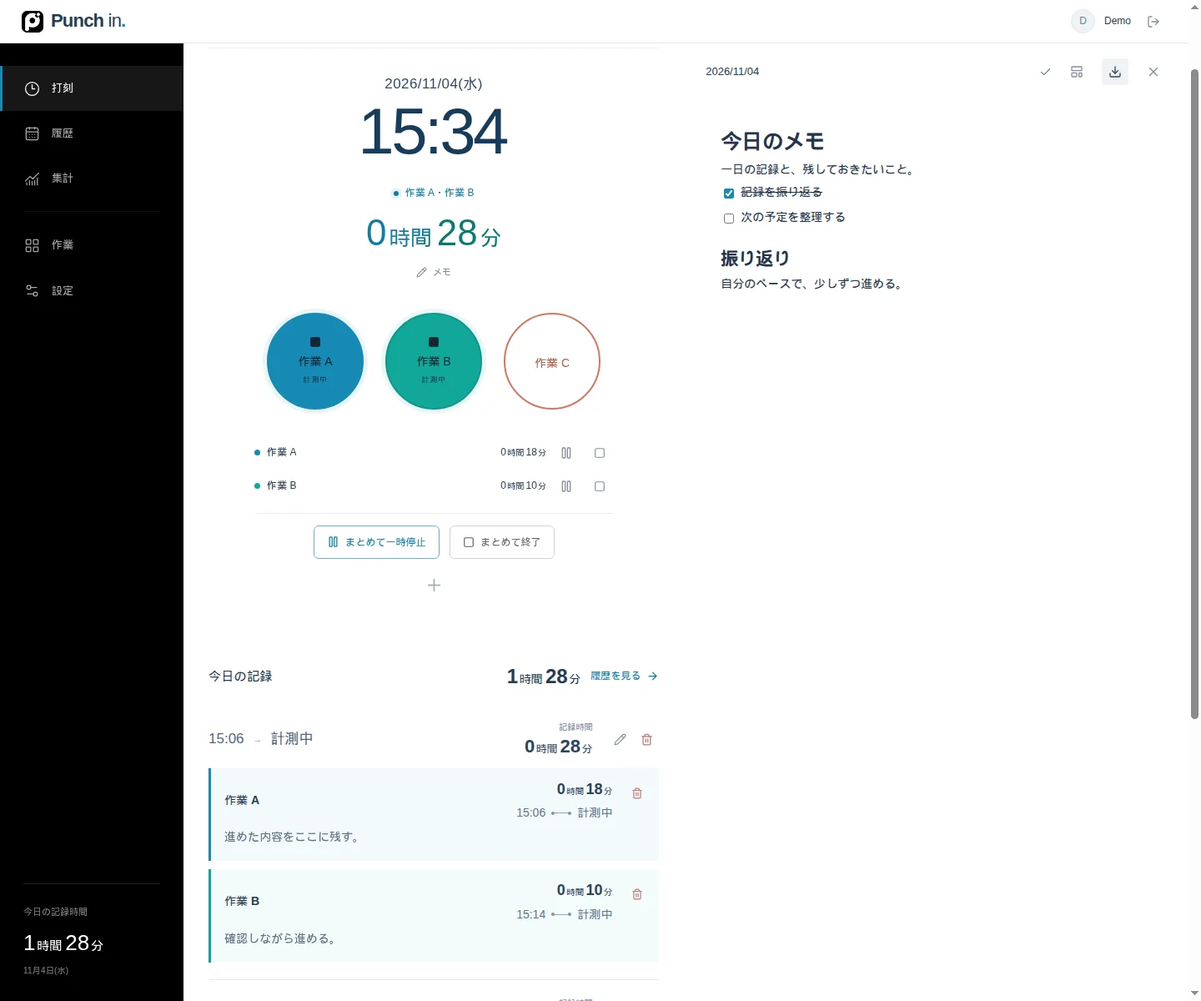
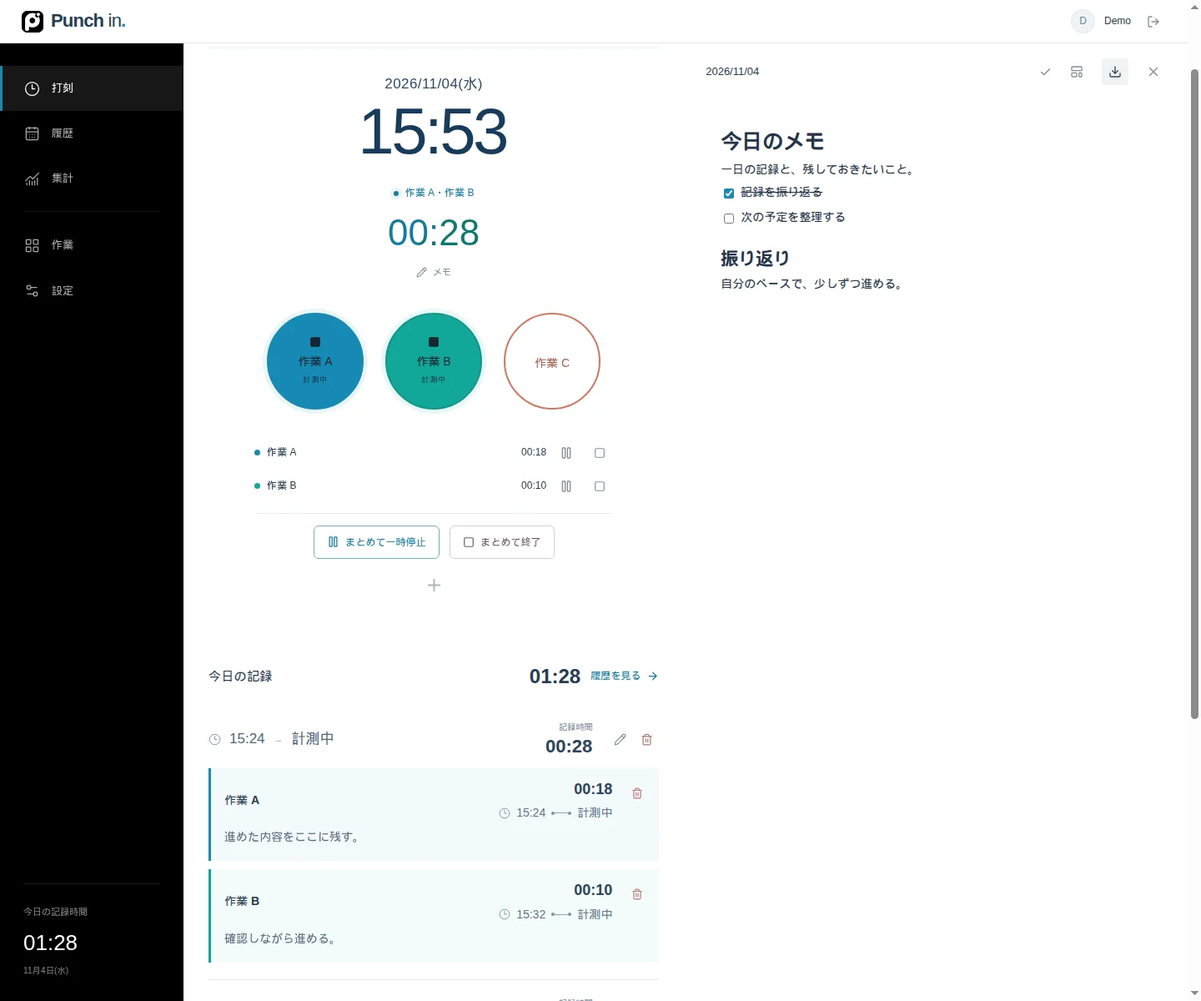
feat: 時間をHH:mmに統一し時刻に時計アイコンを追加

diff --git a/app/components/stats/stats-overview.tsx b/app/components/stats/stats-overview.tsx
@@ -3,7 +3,7 @@ import DurationValue from '../time/duration-value';
 import {memberKey,members,entryAllocations,memberRange} from "../../../lib/work";
 import {memo,useEffect,useId,useLayoutEffect,useMemo,useRef,useState,type CSSProperties} from "react";
 import {createPortal} from "react-dom";
-import {ArrowRight,ChevronLeft,ChevronRight,X} from "lucide-react";
+import {ArrowRight,Clock3,ChevronLeft,ChevronRight,X} from "lucide-react";
 import type {Category,Session} from "../../../lib/model";
 import {buildStatsBuckets,bucketTimes,sumTimes,type StatsBucket} from "../../../lib/stats";
 import {hoursMinutes,minuteInput,readableColor,type Period} from "../../../lib/time";
@@ -34,6 +34,6 @@ export default memo(function StatsOverview({today,accent,sessions,categories,now
   const pageCount=Math.max(1,Math.ceil(rows.length/20)),currentPage=Math.min(page,pageCount-1);
   return <><h2 className="stats-chart-heading">作業時間の内訳</h2><section className="stats-chart" aria-label="作業時間のグラフ"><div className="chart-scale"><span><DurationValue value={max}/></span><span><DurationValue value={max/2}/></span><span><DurationValue value={0}/></span></div><div className="chart-scroll"><div className="chart-plot" style={{minWidth:Math.max(400,rows.length*27)}}>{rows.map(({bucket,values})=><div className="chart-column" key={bucket.key}><button className={`chart-hit ${selection?.key===bucket.key?"is-selected":""}`} aria-label={`${bucket.key} 作業時間 ${hoursMinutes(sumTimes(values))}、履歴を開く`} aria-describedby={selection?.key===bucket.key?popupId:undefined} onPointerDown={e=>{lastPointer.current=e.pointerType;}} onPointerEnter={e=>{if(e.pointerType!=="touch")show(bucket,e.currentTarget);}} onPointerLeave={leave} onFocus={e=>show(bucket,e.currentTarget)} onBlur={e=>{if(!popup.current?.contains(e.relatedTarget))leave();}} onClick={e=>{if(lastPointer.current==="touch"&&e.detail!==0)show(bucket,e.currentTarget,true);else onHistory(bucket.from,bucket.to,categoryFilter);}}><span className="chart-stack" aria-hidden="true">{columns.map(c=>{const value=values.get(c.id)??0;return value>0?<span key={c.id} style={{height:`${value/max*100}%`,background:c.color}}/>:null;})}</span></button><span className="chart-label">{monthly?(period==="all"?bucket.key.replace("-","/"):`${Number(bucket.key.slice(5,7))}月`):period==="day"?`${Number(bucket.key.slice(5,7))}/${Number(bucket.key.slice(8))}`:Number(bucket.key.slice(8))}</span></div>)}</div></div></section>
     <section className="stats-table-section" aria-label="時間の集計表"><div className="section-heading"><h2>{monthly?"月別の内訳":"日別の内訳"}</h2><span className="section-total tabular"><DurationValue value={sumTimes(totals)}/></span></div><div className="table-scroll"><table className="stats-detail-table"><thead><tr><th>{monthly?"月":"日付"}</th>{columns.map(c=><th key={c.id}><span className="stats-column-label" title={c.name}><span className="dot" style={{background:c.color}}/>{c.name}</span></th>)}<th>作業時間</th></tr></thead><tbody>{rows.slice(currentPage*20,currentPage*20+20).map(({bucket,values})=><tr key={bucket.key} className={(monthly?bucket.key===today.slice(0,7):bucket.key===today)?"is-today":""}><th scope="row"><button className="note-day-button" onClick={()=>onHistory(bucket.from,bucket.to,categoryFilter)}>{bucket.key.replaceAll("-","/")}</button></th>{columns.map(c=><td key={c.id}><DurationValue value={values.get(c.id)??0}/></td>)}<td className="stats-row-total"><DurationValue value={sumTimes(values)}/></td></tr>)}</tbody><tfoot><tr><th scope="row">期間合計</th>{columns.map(c=><td key={c.id}><DurationValue value={totals.get(c.id)??0}/></td>)}<td className="stats-row-total"><DurationValue value={sumTimes(totals)}/></td></tr></tfoot></table></div>{pageCount>1&&<div className="pagination"><button className="icon-button" disabled={currentPage===0} onClick={()=>setPage(currentPage-1)} aria-label="内訳の前のページ"><ChevronLeft size={18}/></button><span>{currentPage+1} / {pageCount}</span><button className="icon-button" disabled={currentPage+1===pageCount} onClick={()=>setPage(currentPage+1)} aria-label="内訳の次のページ"><ChevronRight size={18}/></button></div>}</section>
-    {selection&&selected&&createPortal(<div ref={popup} id={popupId} className="stats-popover" role="dialog" aria-label={`${selected.bucket.key}の内訳`} style={{...position,"--accent-link":readableColor(accent),"--accent":accent} as CSSProperties} onPointerEnter={keep} onPointerLeave={leave} onFocusCapture={keep} onBlurCapture={e=>{if(!e.currentTarget.contains(e.relatedTarget))leave();}}><header><div><time>{selected.bucket.key.replaceAll("-","/")}</time><strong><DurationValue value={sumTimes(selected.values)}/></strong><small>作業時間</small></div><button className="icon-button" aria-label="内訳を閉じる" onClick={close}><X size={18}/></button></header><div className="stats-popover-body" tabIndex={0} aria-label="時間とメモの内訳"><div className="popover-totals">{categories.filter(c=>selected.values.has(c.id)).map(c=><div key={c.id}><span><span className="dot" style={{background:c.color}}/>{c.name}</span><strong><DurationValue value={selected.values.get(c.id)??0}/></strong></div>)}</div><div className="popover-records">{selectedEntries.length?selectedEntries.slice(0,limit).map(({session:s,member:m})=><article key={`${s.id}:${memberKey(m)}`}><div><span className="popover-category">{categoryMap.get(m.categoryId)?.name??"削除済み"}</span><strong><DurationValue value={entryAllocations(s,now).get(memberKey(m))??0}/></strong></div><time>{participantPeriod(s,memberKey(m))}</time>{m.memo&&<p>{m.memo}</p>}</article>):<p className="popover-empty">記録がありません</p>}{selectedEntries.length>limit&&<button className="text-button" onClick={()=>setLimit(limit+30)}>さらに表示（{limit} / {selectedEntries.length}件）</button>}</div></div><footer><button className="text-button" onClick={()=>onHistory(selected.bucket.from,selected.bucket.to,categoryFilter)}>履歴を見る<ArrowRight size={15}/></button></footer></div>,document.body)}
+    {selection&&selected&&createPortal(<div ref={popup} id={popupId} className="stats-popover" role="dialog" aria-label={`${selected.bucket.key}の内訳`} style={{...position,"--accent-link":readableColor(accent),"--accent":accent} as CSSProperties} onPointerEnter={keep} onPointerLeave={leave} onFocusCapture={keep} onBlurCapture={e=>{if(!e.currentTarget.contains(e.relatedTarget))leave();}}><header><div><time>{selected.bucket.key.replaceAll("-","/")}</time><strong><DurationValue value={sumTimes(selected.values)}/></strong><small>作業時間</small></div><button className="icon-button" aria-label="内訳を閉じる" onClick={close}><X size={18}/></button></header><div className="stats-popover-body" tabIndex={0} aria-label="時間とメモの内訳"><div className="popover-totals">{categories.filter(c=>selected.values.has(c.id)).map(c=><div key={c.id}><span><span className="dot" style={{background:c.color}}/>{c.name}</span><strong><DurationValue value={selected.values.get(c.id)??0}/></strong></div>)}</div><div className="popover-records">{selectedEntries.length?selectedEntries.slice(0,limit).map(({session:s,member:m})=><article key={`${s.id}:${memberKey(m)}`}><div><span className="popover-category">{categoryMap.get(m.categoryId)?.name??"削除済み"}</span><strong><DurationValue value={entryAllocations(s,now).get(memberKey(m))??0}/></strong></div><time className="popover-record-period"><Clock3 className="time-range-icon" size={13} strokeWidth={1.6} aria-hidden="true"/><span>{participantPeriod(s,memberKey(m))}</span></time>{m.memo&&<p>{m.memo}</p>}</article>):<p className="popover-empty">記録がありません</p>}{selectedEntries.length>limit&&<button className="text-button" onClick={()=>setLimit(limit+30)}>さらに表示（{limit} / {selectedEntries.length}件）</button>}</div></div><footer><button className="text-button" onClick={()=>onHistory(selected.bucket.from,selected.bucket.to,categoryFilter)}>履歴を見る<ArrowRight size={15}/></button></footer></div>,document.body)}
   </>;
 });

diff --git a/app/components/records/work-records.tsx b/app/components/records/work-records.tsx
@@ -1,7 +1,7 @@
 'use client';
 import DurationValue from '../time/duration-value';
 import {useMemo,useState,type CSSProperties} from 'react';
-import {ChevronRight,Pencil,Trash2} from 'lucide-react';
+import {Clock3,ChevronRight,Pencil,Trash2} from 'lucide-react';
 import type {Category,Session} from '../../../lib/model';
 import {memberKey,members,memoKey,entryAllocations,memberRange,memberIntervals} from '../../../lib/work';
 import {hoursMinutes,clock,duration,minuteInput,wallParts} from '../../../lib/time';
@@ -17,16 +17,16 @@ export default function WorkRecords({sessions,categories,now,store,pending,showI
     const envelope=items.length>1||(times.get(memberKey(items[0]))??0)!==real;
     const actions=<div className="record-actions"><button className="icon-button" aria-label="記録を編集" disabled={pending||isPending} onClick={()=>onEdit(s)}><Pencil size={15}/></button><button className="icon-button danger" aria-label="記録を削除" disabled={pending||isPending} onClick={()=>onDelete(s)}><Trash2 size={15}/></button></div>;
     return <article className={`work-record ${envelope?'has-record-envelope':'is-single-record'}`} data-record-id={s.id} key={s.id}>
-      {envelope&&<header className="record-envelope"><div className="record-range tabular"><time>{clock(s.startedAt,s.timezone)}</time><span aria-hidden="true">→</span><time>{endLabel(s)}</time></div><div className="record-total"><small>記録時間</small><strong><DurationValue value={real}/></strong></div>{actions}</header>}
+      {envelope&&<header className="record-envelope"><div className="record-range tabular"><Clock3 className="time-range-icon" size={15} strokeWidth={1.6} aria-hidden="true"/><time>{clock(s.startedAt,s.timezone)}</time><span aria-hidden="true">→</span><time>{endLabel(s)}</time></div><div className="record-total"><small>記録時間</small><strong><DurationValue value={real}/></strong></div>{actions}</header>}
       {items.length>(limits[s.id]??50)&&<button className="text-button" onClick={()=>setLimits(v=>({...v,[s.id]:(v[s.id]??50)+50}))}>以前の記録を表示（{items.length-(limits[s.id]??50)}件）</button>}
       {items.slice(-(limits[s.id]??50)).map(m=>{
         const key=memberKey(m),category=categoryMap.get(m.categoryId),range=memberRange(s,key),periods=memberIntervals(s,key),name=category?.name??'削除済み';
 
         return <section data-member-id={key} className={`work-record-member record-member ${m.state==='paused'?'is-paused':''}`} key={key} style={{'--record-color':category?.color??'#64748b'} as CSSProperties} aria-label={name}>
-          <div className="record-member-heading"><span className="record-member-name">{name}</span><div className="record-member-summary"><strong className="record-member-time" title="作業時間" aria-label={`作業時間 ${hoursMinutes(times.get(key)??0)}`}><DurationValue value={times.get(key)??0}/></strong><div className="record-member-period tabular"><time title={range.start===null?undefined:minuteInput(range.start,s.timezone).replace('T',' ')} aria-label={`開始 ${range.start===null?'不明':clock(range.start,s.timezone)}`}>{range.start===null?'—':clock(range.start,s.timezone)}</time><span className="record-time-track" aria-hidden="true"/><time title={range.end===null?undefined:minuteInput(range.end,s.timezone).replace('T',' ')} aria-label={m.state==='finished'?`終了 ${range.end===null?'不明':clock(range.end,s.timezone)}`:m.state==='paused'?'一時停止中':'計測中'}>{m.state==='finished'?(range.end===null?'—':`${range.start!==null&&wallParts(range.start,s.timezone).date!==wallParts(range.end,s.timezone).date?'翌日以降 ':''}${clock(range.end,s.timezone)}`):m.state==='paused'?'一時停止中':'計測中'}</time></div></div>{envelope?(items.length>1&&<button className="icon-button danger" aria-label={`${name}だけ削除`} disabled={isPending||pending} onClick={()=>onDelete(s,key)}><Trash2 size={14}/></button>):actions}</div>
+          <div className="record-member-heading"><span className="record-member-name">{name}</span><div className="record-member-summary"><strong className="record-member-time" title="作業時間" aria-label={`作業時間 ${hoursMinutes(times.get(key)??0)}`}><DurationValue value={times.get(key)??0}/></strong><div className="record-member-period tabular"><Clock3 className="time-range-icon" size={14} strokeWidth={1.6} aria-hidden="true"/><time title={range.start===null?undefined:minuteInput(range.start,s.timezone).replace('T',' ')} aria-label={`開始 ${range.start===null?'不明':clock(range.start,s.timezone)}`}>{range.start===null?'—':clock(range.start,s.timezone)}</time><span className="record-time-track" aria-hidden="true"/><time title={range.end===null?undefined:minuteInput(range.end,s.timezone).replace('T',' ')} aria-label={m.state==='finished'?`終了 ${range.end===null?'不明':clock(range.end,s.timezone)}`:m.state==='paused'?'一時停止中':'計測中'}>{m.state==='finished'?(range.end===null?'—':`${range.start!==null&&wallParts(range.start,s.timezone).date!==wallParts(range.end,s.timezone).date?'翌日以降 ':''}${clock(range.end,s.timezone)}`):m.state==='paused'?'一時停止中':'計測中'}</time></div></div>{envelope?(items.length>1&&<button className="icon-button danger" aria-label={`${name}だけ削除`} disabled={isPending||pending} onClick={()=>onDelete(s,key)}><Trash2 size={14}/></button>):actions}</div>
 
           <MemoCell id={memoKey(s,key)} target={s.work?{id:s.id,categoryId:m.categoryId,...(m.id?{memberId:m.id}:{})}:undefined} value={m.memo} label={`${name} ${range.start===null?'':clock(range.start,s.timezone)}のメモ`} store={store} disabled={isPending||pending}/>
-          {showIntervals&&periods.length>1&&<details className="record-intervals"><summary><ChevronRight size={14}/><span>計測区間</span><span className="record-interval-count">{periods.length}</span></summary><div className="record-interval-list">{periods.map((p,i)=><div className="record-interval tabular" key={i}><time>{clock(p.start,s.timezone)}</time><span aria-hidden="true">→</span><time>{p.end===null?'計測中':clock(p.end,s.timezone)}</time><strong><DurationValue value={Math.max(0,(p.end??now)-p.start)}/></strong></div>)}</div></details>}
+          {showIntervals&&periods.length>1&&<details className="record-intervals"><summary><ChevronRight size={14}/><span>計測区間</span><span className="record-interval-count">{periods.length}</span></summary><div className="record-interval-list">{periods.map((p,i)=><div className="record-interval tabular" key={i}><time><Clock3 className="time-range-icon" size={13} strokeWidth={1.6} aria-hidden="true"/>{clock(p.start,s.timezone)}</time><span aria-hidden="true">→</span><time>{p.end===null?'計測中':clock(p.end,s.timezone)}</time><strong><DurationValue value={Math.max(0,(p.end??now)-p.start)}/></strong></div>)}</div></details>}
         </section>;
       })}
     </article>;

diff --git a/app/punch-app.tsx b/app/punch-app.tsx
@@ -4,7 +4,7 @@ import DurationValue from './components/time/duration-value';
 import { lazy, Suspense, useCallback, useEffect, useMemo, useRef, useState, type CSSProperties, type FormEvent, type ReactNode } from "react";
 import { Palette, Clock3, CalendarDays, ChartNoAxesCombined, Settings2, LayoutGrid, ChevronLeft, ChevronRight, ChevronUp, ChevronDown, Plus, Pencil, X, Menu, LogOut, Play, Square, Search, Download, Upload, Eye, EyeOff, Trash2, Check, LoaderCircle, Bell, ArrowRight, RefreshCw } from "lucide-react";
 import type { AppState, Backup, Category, PendingPunch, Preferences, PunchDelta, Session } from "../lib/model";
-import { businessDay, clock, contrastText, dayStartLabel, duration, fromTimeInput, minuteIso, hoursMinutes, periodRange, readableDate, readableColor, shiftDay, shiftPeriod, minuteInput, wallParts, type Period } from "../lib/time";
+import { businessDay, clock, contrastText, dayStartLabel, duration, fromTimeInput, hm, minuteIso, hoursMinutes, periodRange, readableDate, readableColor, shiftDay, shiftPeriod, minuteInput, wallParts, type Period } from "../lib/time";
 
 import {memberKey,currentMember,entryAllocations,categoryAllocations,members,includesCategory,allocations,creditedTime,memberRange,memoKey,readMemo,setMemo} from "../lib/work";
 import ParallelControls from "./components/records/parallel-controls";
@@ -216,7 +216,7 @@ export default function PunchApp({initial,displayName,draftScope}:{initial:AppSt
 
   function recordTable(list:Session[],showIntervals=false){return list.length?<WorkRecords showIntervals={showIntervals} sessions={list} categories={state.categories} now={now} store={memoStore} pending={pending} onEdit={s=>void editSession(s)} onDelete={requestDeleteSession}/>:<Empty/>;}
   async function exportRecords(){if(!await memoStore.flushAll()){setToast({text:"メモの保存を確認してから書き出してください",error:true});return;}const current=new Map(stateRef.current.sessions.map(s=>[s.id,s]));const rows=history.map(s=>current.get(s.id)??s);saveFile(csv([["日付","作業ID","作業","開始日時","終了日時","作業時間（分）","タイムゾーン","1日の開始","メモ","計測中"],...rows.flatMap(s=>members(s).map(m=>[s.businessDay,m.categoryId,category(m.categoryId)?.name??"",memberRange(s,memberKey(m)).start===null?"":minuteIso(memberRange(s,memberKey(m)).start!),memberRange(s,memberKey(m)).end===null?"":minuteIso(memberRange(s,memberKey(m)).end!),Math.floor((entryAllocations(s,now).get(memberKey(m))??0)/60000),s.timezone,dayStartLabel(s.dayStart),m.memo,m.state!=="finished"?"はい":"いいえ"]))]),`punch-in-records-${historyDay}.csv`,"text/csv;charset=utf-8");}
-  function exportStats(){saveFile(csv([["期間開始","期間終了","作業ID","作業","作業時間（分）","時間","計測中を含む"],...state.categories.filter(c=>!statsFilter||c.id===statsFilter).map(c=>{const rows=selected.filter(s=>includesCategory(s,c.id));const t=rows.reduce((v,s)=>v+(allocations(s,now).get(c.id)??0),0);return[period==="all"?"全期間":from,period==="all"?"":to,c.id,c.name,Math.floor(t/60000),hoursMinutes(t),rows.some(s=>s.endedAt===null)?"はい":"いいえ"]; }),[period==="all"?"全期間":from,period==="all"?"":to,"","作業時間",Math.floor(creditedTotal/60000),hoursMinutes(creditedTotal),selectedRunning?"はい":"いいえ"]]),"punch-in-summary.csv","text/csv;charset=utf-8");}
+  function exportStats(){saveFile(csv([["期間開始","期間終了","作業ID","作業","作業時間（分）","時間","計測中を含む"],...state.categories.filter(c=>!statsFilter||c.id===statsFilter).map(c=>{const rows=selected.filter(s=>includesCategory(s,c.id));const t=rows.reduce((v,s)=>v+(allocations(s,now).get(c.id)??0),0);return[period==="all"?"全期間":from,period==="all"?"":to,c.id,c.name,Math.floor(t/60000),hm(t),rows.some(s=>s.endedAt===null)?"はい":"いいえ"]; }),[period==="all"?"全期間":from,period==="all"?"":to,"","作業時間",Math.floor(creditedTotal/60000),hm(creditedTotal),selectedRunning?"はい":"いいえ"]]),"punch-in-summary.csv","text/csv;charset=utf-8");}
   async function loadBackup(file:File){setBackup(null);setPreview(null);if(file.size>16_000_000){setToast({text:"ファイルは16MB以内にしてください",error:true});return;}try{const value=JSON.parse(await file.text()) as Backup;const result=await mutate("importPreview",{backup:value});if(result?.preview){setBackup(value);setPreview(result.preview);}}catch{setToast({text:"JSONファイルを読み込めません",error:true});}}
   return <div className={`app ${noteTarget.open?"notes-open":""}`} style={style}>
     <header className="topbar"><button ref={menuButton} className="mobile-menu icon-button" onClick={()=>menu?closeMenu():setMenu(true)} aria-label="メニュー" aria-controls="app-navigation" aria-expanded={compactNavigation&&menu}><Menu size={22}/></button><button className="brand" aria-label="打刻（ホーム）へ" onClick={()=>{go("punch");window.scrollTo({top:0,behavior:"auto"});}}><span className="brand-mark"><img src="/icons/punch-in-96.png" alt="" width={26} height={26} decoding="async"/></span><span>Punch <b>in</b><span className="brand-period">.</span></span></button><div className="account"><span className="avatar">{displayName.slice(0,1).toUpperCase()}</span><span className="account-name">{displayName}</span><a className="icon-button" href="/signout-with-chatgpt?return_to=%2F" target="_top" aria-label="ログアウト"><LogOut size={16}/></a></div></header>

diff --git a/app/components/records/allocation-editor.tsx b/app/components/records/allocation-editor.tsx
@@ -1,5 +1,6 @@
 'use client';
 import DurationValue from '../time/duration-value';
+import {Clock3} from 'lucide-react';
 import {useMemo,useState} from 'react';
 import type {Category,Session} from '../../../lib/model';
 import {entryAllocations,memberKey,memberRange} from '../../../lib/work';
@@ -9,5 +10,5 @@ export default function AllocationEditor({session,categories,pending,save}:{sess
  const w=session.work!,[mode,setMode]=useState(w.mode),[values,setValues]=useState(()=>Object.fromEntries(w.members.map(m=>[memberKey(m),String(w.mode==='ratio'?m.weight:Math.floor((entryAllocations(session,0).get(memberKey(m))??0)/60000))])));
  const [error,setError]=useState('');
  const automatic=useMemo(()=>entryAllocations({...session,work:{...w,mode:'auto'}},0),[session,w]);
- return <form onSubmit={e=>{e.preventDefault();let v:Record<string,number>;try{v=Object.fromEntries(Object.entries(values).map(([id,n])=>[id,mode==='manual'?editedMinutes(n,w.mode==='manual'?w.members.find(m=>memberKey(m)===id)?.manualMs??null:null):Number(n)]));}catch(e){setError((e as Error).message);return;}if(Object.values(v).some(n=>!Number.isFinite(n)||n<0)||mode==='ratio'&&Object.values(v).every(n=>n===0)){setError('配分を確認してください');return;}void save({id:session.id,control:'allocate',mode,values:v});}}><div className="allocation-period"><span>{clock(session.startedAt,session.timezone)} → {session.endedAt===null?'計測中':clock(session.endedAt,session.timezone)}</span><strong>記録時間 <DurationValue value={duration(session,Date.now())}/></strong></div>{session.endedAt===null?<p>計測を終了すると配分を編集できます。</p>:<><div className="segmented allocation-modes">{(['auto','ratio','manual'] as const).map((m,i)=><button type="button" key={m} className={mode===m?'selected':''} onClick={()=>{setMode(m);setValues(Object.fromEntries(w.members.map(member=>[memberKey(member),String(m==='ratio'?member.weight:Math.floor((entryAllocations(session,0).get(memberKey(member))??0)/60000))])));}}>{['均等','比率','時間'][i]}</button>)}</div>{w.members.map(m=><label className="setting-row" key={memberKey(m)}><span>{categories.find(c=>c.id===m.categoryId)?.name??'削除済み'}<small className="allocation-member-period">{memberRange(session,memberKey(m)).start===null?'—':clock(memberRange(session,memberKey(m)).start!,session.timezone)} → {memberRange(session,memberKey(m)).end===null?'—':clock(memberRange(session,memberKey(m)).end!,session.timezone)}</small></span>{mode==='auto'?<strong><DurationValue value={automatic.get(memberKey(m))??0}/></strong>:<div className="input-unit"><input required type="number" min="0" step={mode==='manual'?'1':'any'} max={mode==='manual'?5259600:1000000} value={values[memberKey(m)]} onChange={e=>setValues({...values,[memberKey(m)]:e.target.value})}/><span>{mode==='manual'?'分':'比'}</span></div>}</label>)}{error&&<p role="alert">{error}</p>}<div className="modal-actions"><button className="primary-button" disabled={pending}>保存する</button></div></>}</form>;
+ return <form onSubmit={e=>{e.preventDefault();let v:Record<string,number>;try{v=Object.fromEntries(Object.entries(values).map(([id,n])=>[id,mode==='manual'?editedMinutes(n,w.mode==='manual'?w.members.find(m=>memberKey(m)===id)?.manualMs??null:null):Number(n)]));}catch(e){setError((e as Error).message);return;}if(Object.values(v).some(n=>!Number.isFinite(n)||n<0)||mode==='ratio'&&Object.values(v).every(n=>n===0)){setError('配分を確認してください');return;}void save({id:session.id,control:'allocate',mode,values:v});}}><div className="allocation-period"><span><Clock3 className="time-range-icon" size={14} strokeWidth={1.6} aria-hidden="true"/>{clock(session.startedAt,session.timezone)} → {session.endedAt===null?'計測中':clock(session.endedAt,session.timezone)}</span><strong>記録時間 <DurationValue value={duration(session,Date.now())}/></strong></div>{session.endedAt===null?<p>計測を終了すると配分を編集できます。</p>:<><div className="segmented allocation-modes">{(['auto','ratio','manual'] as const).map((m,i)=><button type="button" key={m} className={mode===m?'selected':''} onClick={()=>{setMode(m);setValues(Object.fromEntries(w.members.map(member=>[memberKey(member),String(m==='ratio'?member.weight:Math.floor((entryAllocations(session,0).get(memberKey(member))??0)/60000))])));}}>{['均等','比率','時間'][i]}</button>)}</div>{w.members.map(m=><label className="setting-row" key={memberKey(m)}><span>{categories.find(c=>c.id===m.categoryId)?.name??'削除済み'}<small className="allocation-member-period"><Clock3 className="time-range-icon" size={12} strokeWidth={1.6} aria-hidden="true"/>{memberRange(session,memberKey(m)).start===null?'—':clock(memberRange(session,memberKey(m)).start!,session.timezone)} → {memberRange(session,memberKey(m)).end===null?'—':clock(memberRange(session,memberKey(m)).end!,session.timezone)}</small></span>{mode==='auto'?<strong><DurationValue value={automatic.get(memberKey(m))??0}/></strong>:<div className="input-unit"><input required type="number" min="0" step={mode==='manual'?'1':'any'} max={mode==='manual'?5259600:1000000} value={values[memberKey(m)]} onChange={e=>setValues({...values,[memberKey(m)]:e.target.value})}/><span>{mode==='manual'?'分':'比'}</span></div>}</label>)}{error&&<p role="alert">{error}</p>}<div className="modal-actions"><button className="primary-button" disabled={pending}>保存する</button></div></>}</form>;
 }

diff --git a/app/globals.css b/app/globals.css
@@ -467,14 +467,17 @@
 @container(max-width:450px){.record-list .record-member-heading{gap:8px}.record-list .record-member-time{font-size:17px}.record-list .record-member-period{font-size:13px;gap:5px}.record-member-period>.record-time-track{width:16px;flex-basis:16px}.record-list .record-total strong{font-size:21px}}
 @media(max-width:760px){.history-day-band .history-day-total,.today-records-total{font-size:24px}.today-records .section-heading>.text-button{font-size:11px}.record-list .record-member-name{font-size:14px}}
 
-/* Keep elapsed-time units subordinate to the digits at every display size. */
+/* Elapsed time stays compact while the surrounding layout sets its hierarchy. */
 .duration-value{display:inline-flex;align-items:baseline;white-space:nowrap;font-variant-numeric:tabular-nums;letter-spacing:normal;line-height:inherit}
-.duration-value>.duration-number{font-size:inherit;font-weight:inherit}
-.duration-value>.duration-unit{font-size:max(.58em,10px);font-weight:400;line-height:1;margin-inline:.12em .25em}
-.duration-value>.duration-unit:last-child{margin-right:0}
 .sidebar-total strong .duration-value{font-size:26px}
 .week-timeline{--week-total-width:90px}
 @media(max-width:760px){.week-timeline{--week-total-width:80px}}
 .chart-scale{width:82px;font-size:12px}
 @media(max-width:760px){.chart-scale{width:72px;font-size:11px}.sidebar-total strong .duration-value{font-size:26px}}
 .summary-prior{font-size:11px}
+
+.time-range-icon{flex-shrink:0;color:#8197a8;vertical-align:middle}
+.allocation-period>span,.allocation-member-period{display:flex;align-items:center;gap:6px}
+.record-interval>time:first-child{display:flex;align-items:center;gap:6px}
+.popover-records .popover-record-period{display:flex;align-items:flex-start;gap:6px}
+.popover-record-period>.time-range-icon{margin-top:2px}

diff --git a/app/components/time/duration-value.tsx b/app/components/time/duration-value.tsx
@@ -1,5 +1,5 @@
-/** Display elapsed time consistently; the parent controls the size of its digits. */
+import {hm} from '../../../lib/time';
+/** Keep elapsed time in hours:minutes; the parent controls its visual emphasis. */
 export default function DurationValue({value}:{value:number}){
-  const minutes=Math.floor(Math.max(0,value)/60000);
-  return <span className="duration-value"><span className="duration-number">{Math.floor(minutes/60)}</span><span className="duration-unit">時間</span><span className="duration-number">{String(minutes%60).padStart(2,'0')}</span><span className="duration-unit">分</span></span>;
+  return <span className="duration-value">{hm(value)}</span>;
 }

diff --git a/docs/SPEC.md b/docs/SPEC.md
@@ -207,3 +207,10 @@
 - 経過時間・日合計・各作業・配分編集・集計表・ホバー・前期間比較・週タイムラインの小計は「N時間MM分」に統一する。共通部品DurationValueを使い、「時間」「分」は数字より小さく表示する。
 - 数字のサイズは親の強弱を引き継ぎ、日合計は各作業より大きくする。単位は相対サイズと最小10pxを使う。時計・開始終了・目盛りの時刻はHH:mmを維持する。CSVの「時間」列も同じ文字表記とし、数値の分数列は維持する。
 - 表示の変更だけでDB・API・復元用JSON・分未満の合算方法は変更しない。
+
+
+## HH:mmの所要時間と時計アイコン（2026-11-04）
+
+- 時間の主表示はDurationValueを共用し「01:30」の形式へ統一する。時計・開始終了もHH:mmだが、記録一覧・計測区間・配分編集・集計ホバーの開始終了には小さな時計アイコンを添えて見分けられるようにする。
+- 経過時間・日合計・各作業の文字サイズの強弱は維持する。タイムラインの時刻目盛りにはアイコンを追加しない。
+- CSVの文字列の時間列はHH:mm、数値の分数列とDB/API/JSONの精度は維持する。読み上げラベル・通知などの文章には時間と分の表記を使う。

diff --git a/docs/VALIDATION.md b/docs/VALIDATION.md
@@ -137,3 +137,9 @@ punch-in-icon-v2.pngを元に、ロゴの形を保持して余白を整えたPNG
 - 経過時間、日合計、作業ごとの時間、配分編集、集計表・ホバー・前期間比較、タイムライン小計を同じ部品で表示する。数字より単位が小さくなることをブラウザの実サイズで確認。
 - PC1440pxと狭い320pxでページの横はみ出しなし。タイムラインの小計列と日付帯でも文字が収まり、時間目盛りの行との重なりがないことを確認。
 - 時計と開始・終了時刻はHH:mmを維持する。CSVの数値の分数列、DB・JSONの時刻精度は維持する。
+
+## HH:mmと時計アイコン（2026-11-04）
+
+- 型チェック・既存155件の単体テスト・Sites用ビルドが成功。
+- PC1440pxと狭い320pxで、時間の主表示がHH:mmに統一されること、各作業の開始終了に時計アイコンが付くこと、ページと記録カードに横はみ出しがないことを確認。
+- タイムラインの目盛りに時計アイコンを追加せず、目盛りと日付行が重ならないことを再確認。時計は装飾アイコンとし、操作や読み上げラベルを増やさない。

diff --git a/README.md b/README.md
@@ -39,7 +39,7 @@
 - **記録とメモ** — 履歴検索、日付行からの追加、ホイールまたは直接入力での日時修正、打刻ごとのメモ、日別ブロックメモの自動保存とMarkdown出力。
 - **日別メモのテンプレート** — 作成・編集・複製・削除、初回の自動挿入、別テンプレートへの変更。
 - **時間を配分** — 並行した区間を均等配分。終了後に比率や作業ごとの時間を編集。打刻・履歴のまとまりは重複なしの「記録時間」、各作業と集計は配分後の「作業時間」を表示。
-- **振り返り** — 期間別・作業別の合計、タイムライン、グラフ、「時間・分」で統一した集計表、前期間との比較。
+- **振り返り** — 期間別・作業別の合計、タイムライン、グラフ、分単位の集計表、前期間との比較。
 - **データを引き継ぐ** — 構造を保持するJSONバックアップ・復元、日別メモのMarkdown出力、履歴と集計のCSV出力。再実装時の移行仕様も公開。
 - **画面幅に対応** — 狭い画面ではサイドバーを格納し、丸い打刻ボタンを維持。メモは下に並びます。
 

diff --git a/docs/HANDOVER.md b/docs/HANDOVER.md
@@ -104,3 +104,5 @@
 分単位の表示はlib/time.tsのhm・durationLabel・minuteInput・minuteIsoを使う。timeInputや内部モデルは精度を維持する。編集時はlib/record-editor.tsのeditedTime/editedMinutesで、表示値が変わらなければ元の値を保存する。時間を各記録で丸めてから集計しない。週タイムラインの目盛りは専用のグリッド行とし、絶対配置する目盛りのtopを明示して次の日付行へ侵入させない。
 
 経過時間と集計の表示はapp/components/time/duration-value.tsxへ統一する。親の数字サイズを継承し、単位のみ小さくする。文字列が必要なCSV・aria-label・titleにはhoursMinutesを使う。時刻のclockと区別する。
+
+DurationValueは共通のhm関数でHH:mmへ整形する。開始・終了の範囲にはClock3を添える。タイムラインの目盛りには追加しない。

diff --git a/docs/SECURITY-REVIEW.md b/docs/SECURITY-REVIEW.md
@@ -27,3 +27,5 @@
 公開する全ソースのスナップショットと変更前の22コミットをGitleaksでスキャンし、検出は0件だった。
 
 時間・分の表記統一でも、公開するソースとGit履歴を確認する。README画像はローカルの架空ユーザーDemoで撮影し、個人データ・認証情報・ローカルDBを含めない。
+
+HH:mmと時計アイコンの変更でも、公開対象のソースと履歴をスキャンする。画像にはローカルの架空ユーザーDemoだけを使用し、認証情報・個人の記録・DBを含めない。

diff --git a/docs/images/README.md b/docs/images/README.md
@@ -13,3 +13,7 @@
 画像はREADMEから相対パスで参照します。UIを変更した場合は対応する画像を撮り直してください。
 
 時間の表示は「N時間MM分」へ統一し、単位を小さくした状態で撮影している。
+
+最新画像は所要時間をHH:mmとし、記録の開始終了に時計アイコンを添えた画面。
+
+最新の画像では所要時間をHH:mmで表示し、開始・終了の範囲に時計アイコンを付けている。
